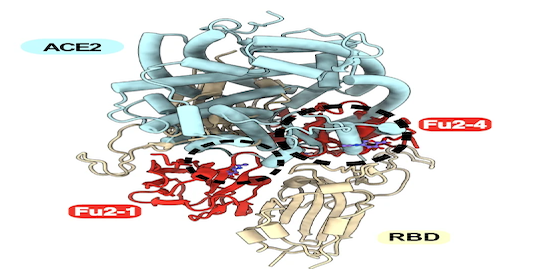
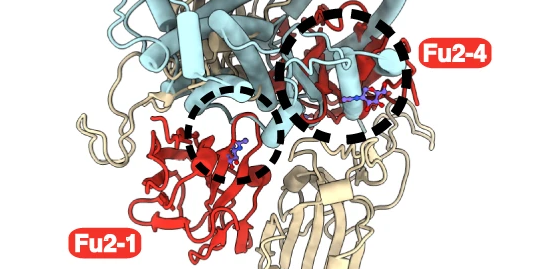
updated images

diff --git a/content/english/highlights/sars-cov2_T-cell_response.md b/content/english/highlights/sars-cov2_T-cell_response.md
@@ -3,7 +3,7 @@ title: Study provides important insights for future predictions of SARS CoV-2 in
 date: 2022-02-21
 summary: Mangsbo and colleagues investigated sensitivity and specificity of a SARS-CoV-2 T-cell assay. Research warrants further research into that future T-cell receptor sequencing as future tools for prediction of previous infections. Data and metadata available.
 banner: /highlights/banners/sarscov2_tcell_response.png
-banner_large: /highlights/banners/sarscov2_tcell_response.png
+banner_large: /highlights/banners/sarscov2_tcell_response_large.png
 banner_caption: Fig 1. Venn diagram displaying (left) the seronegative individuals that scored T-cell positive on the T-cell test, from Mangsbo et al. (2021)
 topics: [COVID-19, Infectious diseases]
 ---
